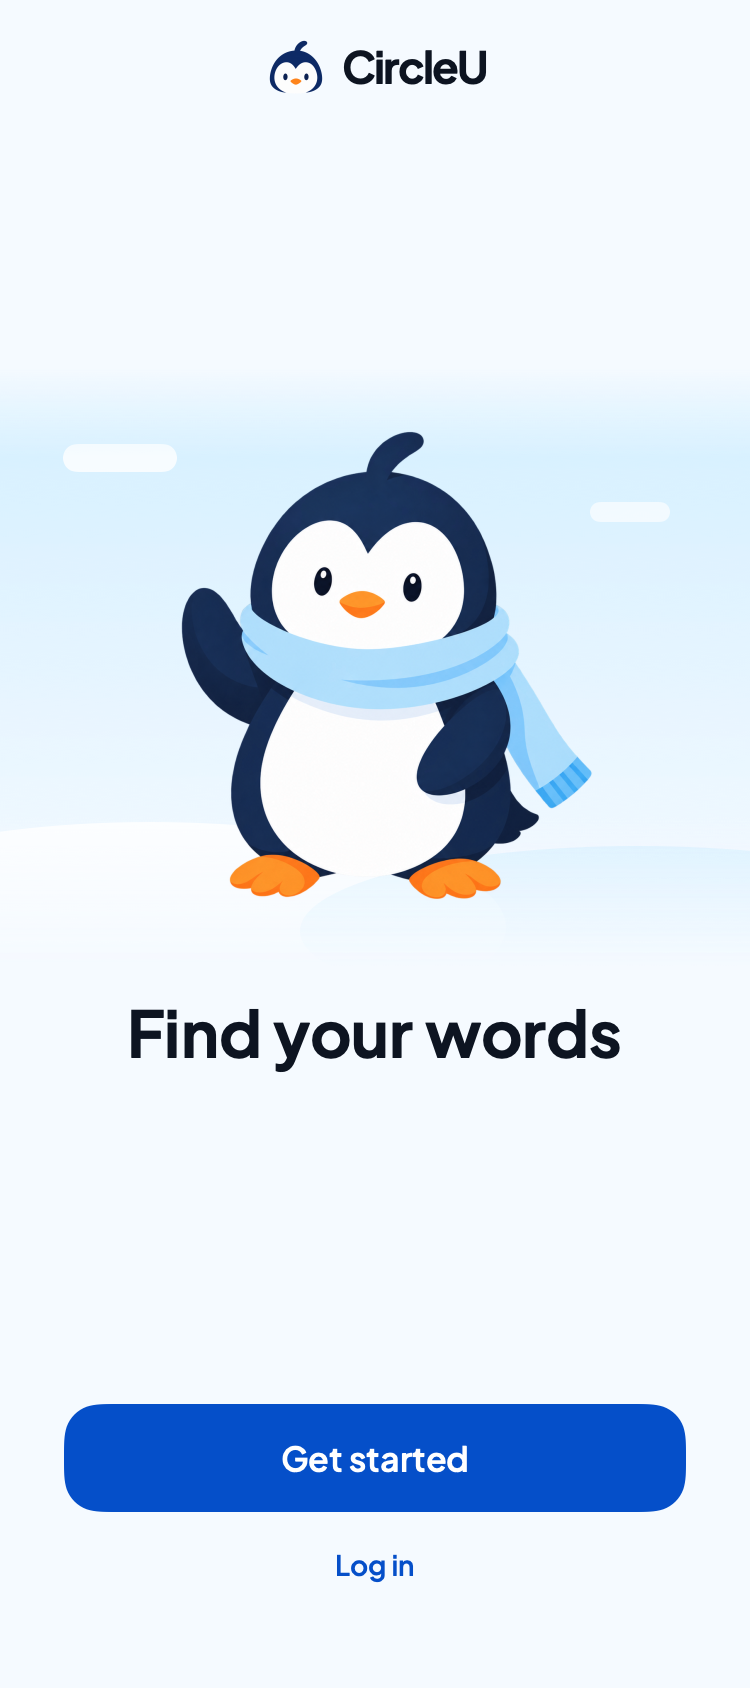
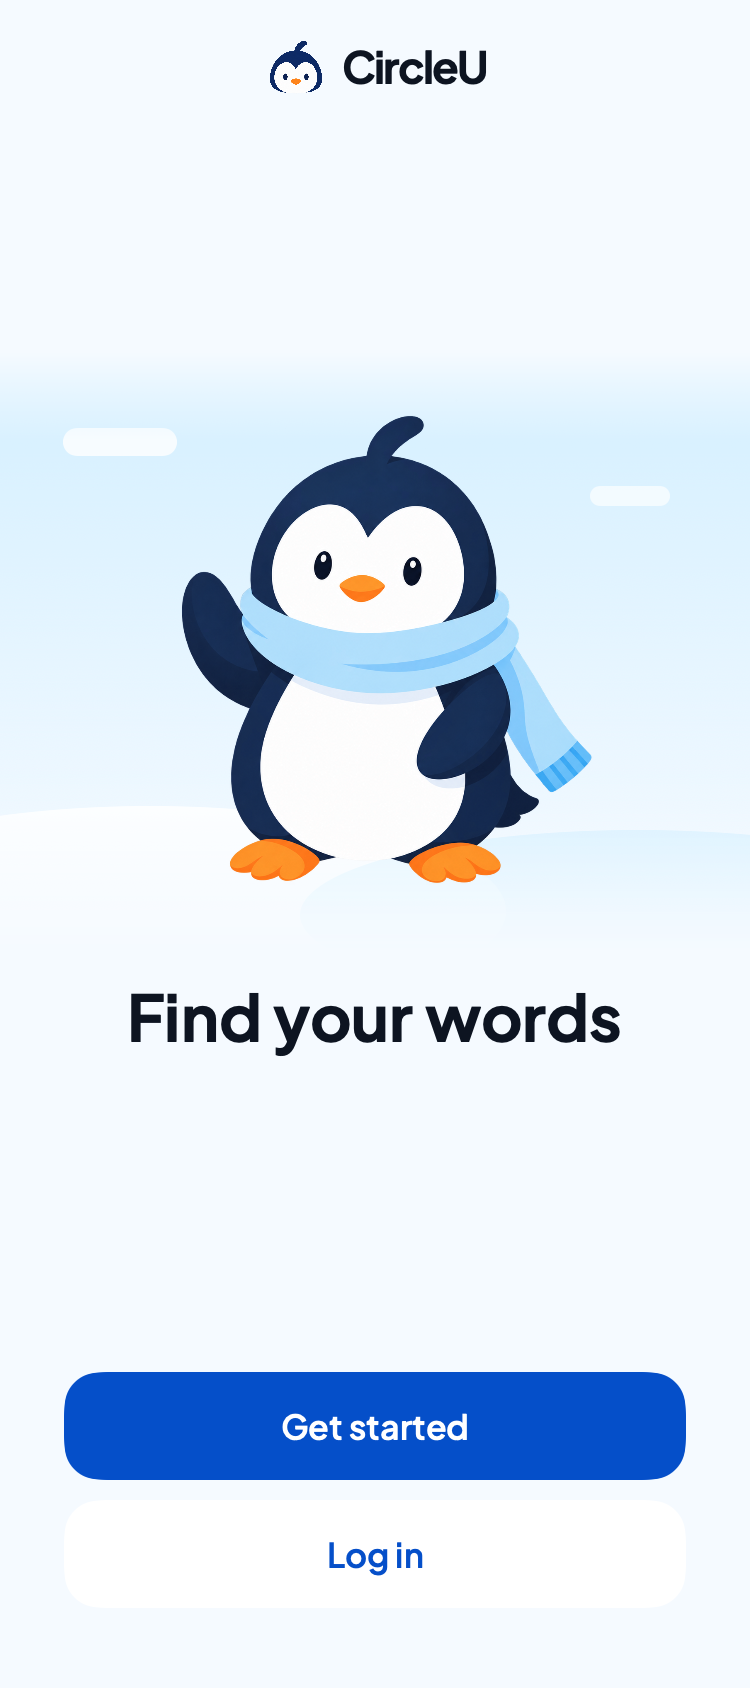
feat(prototype): show Welcome Log in as a full-width secondary button
Owner decision: Log in matches Get started in size, using the existing
white secondary style with blue text, so returning users find it easily
while Get started stays the primary path. Renders regenerated.

diff --git a/Prototypes/CircleUVisualPrototype/Sources/CircleUVisualPrototype/BrandOnboardingPreview.swift b/Prototypes/CircleUVisualPrototype/Sources/CircleUVisualPrototype/BrandOnboardingPreview.swift
@@ -83,9 +83,9 @@ public struct BrandOnboardingPreview: View {
 
             Spacer(minLength: 24)
 
-            VStack(spacing: 4) {
+            VStack(spacing: 10) {
                 primaryButton("Get started") { navigate(to: .opening) }
-                quietButton("Log in") { navigate(to: .logIn) }
+                primaryButton("Log in", filled: false) { navigate(to: .logIn) }
                     .accessibilityHint("Opens account login")
             }
             .padding(.top, 12)
@@ -165,13 +165,15 @@ public struct BrandOnboardingPreview: View {
         .background(.white, in: RoundedRectangle(cornerRadius: 18))
     }
 
-    private func primaryButton(_ title: String, action: @escaping () -> Void) -> some View {
+    /// `filled: false` is the existing white secondary style (as on Save only my words), same size.
+    private func primaryButton(_ title: String, filled: Bool = true, action: @escaping () -> Void) -> some View {
         Button(action: action) {
             Text(title).font(font(17, .semibold)).multilineTextAlignment(.center)
                 .padding(.horizontal, 16).padding(.vertical, 15)
                 .frame(maxWidth: .infinity, minHeight: 54)
-                .foregroundStyle(.white)
-                .background(BrandDemoColor.blue, in: RoundedRectangle(cornerRadius: 18))
+                .foregroundStyle(filled ? .white : BrandDemoColor.blue)
+                .background(filled ? BrandDemoColor.blue : .white, in: RoundedRectangle(cornerRadius: 18))
+                .contentShape(RoundedRectangle(cornerRadius: 18))
         }
         .buttonStyle(.plain)
     }
